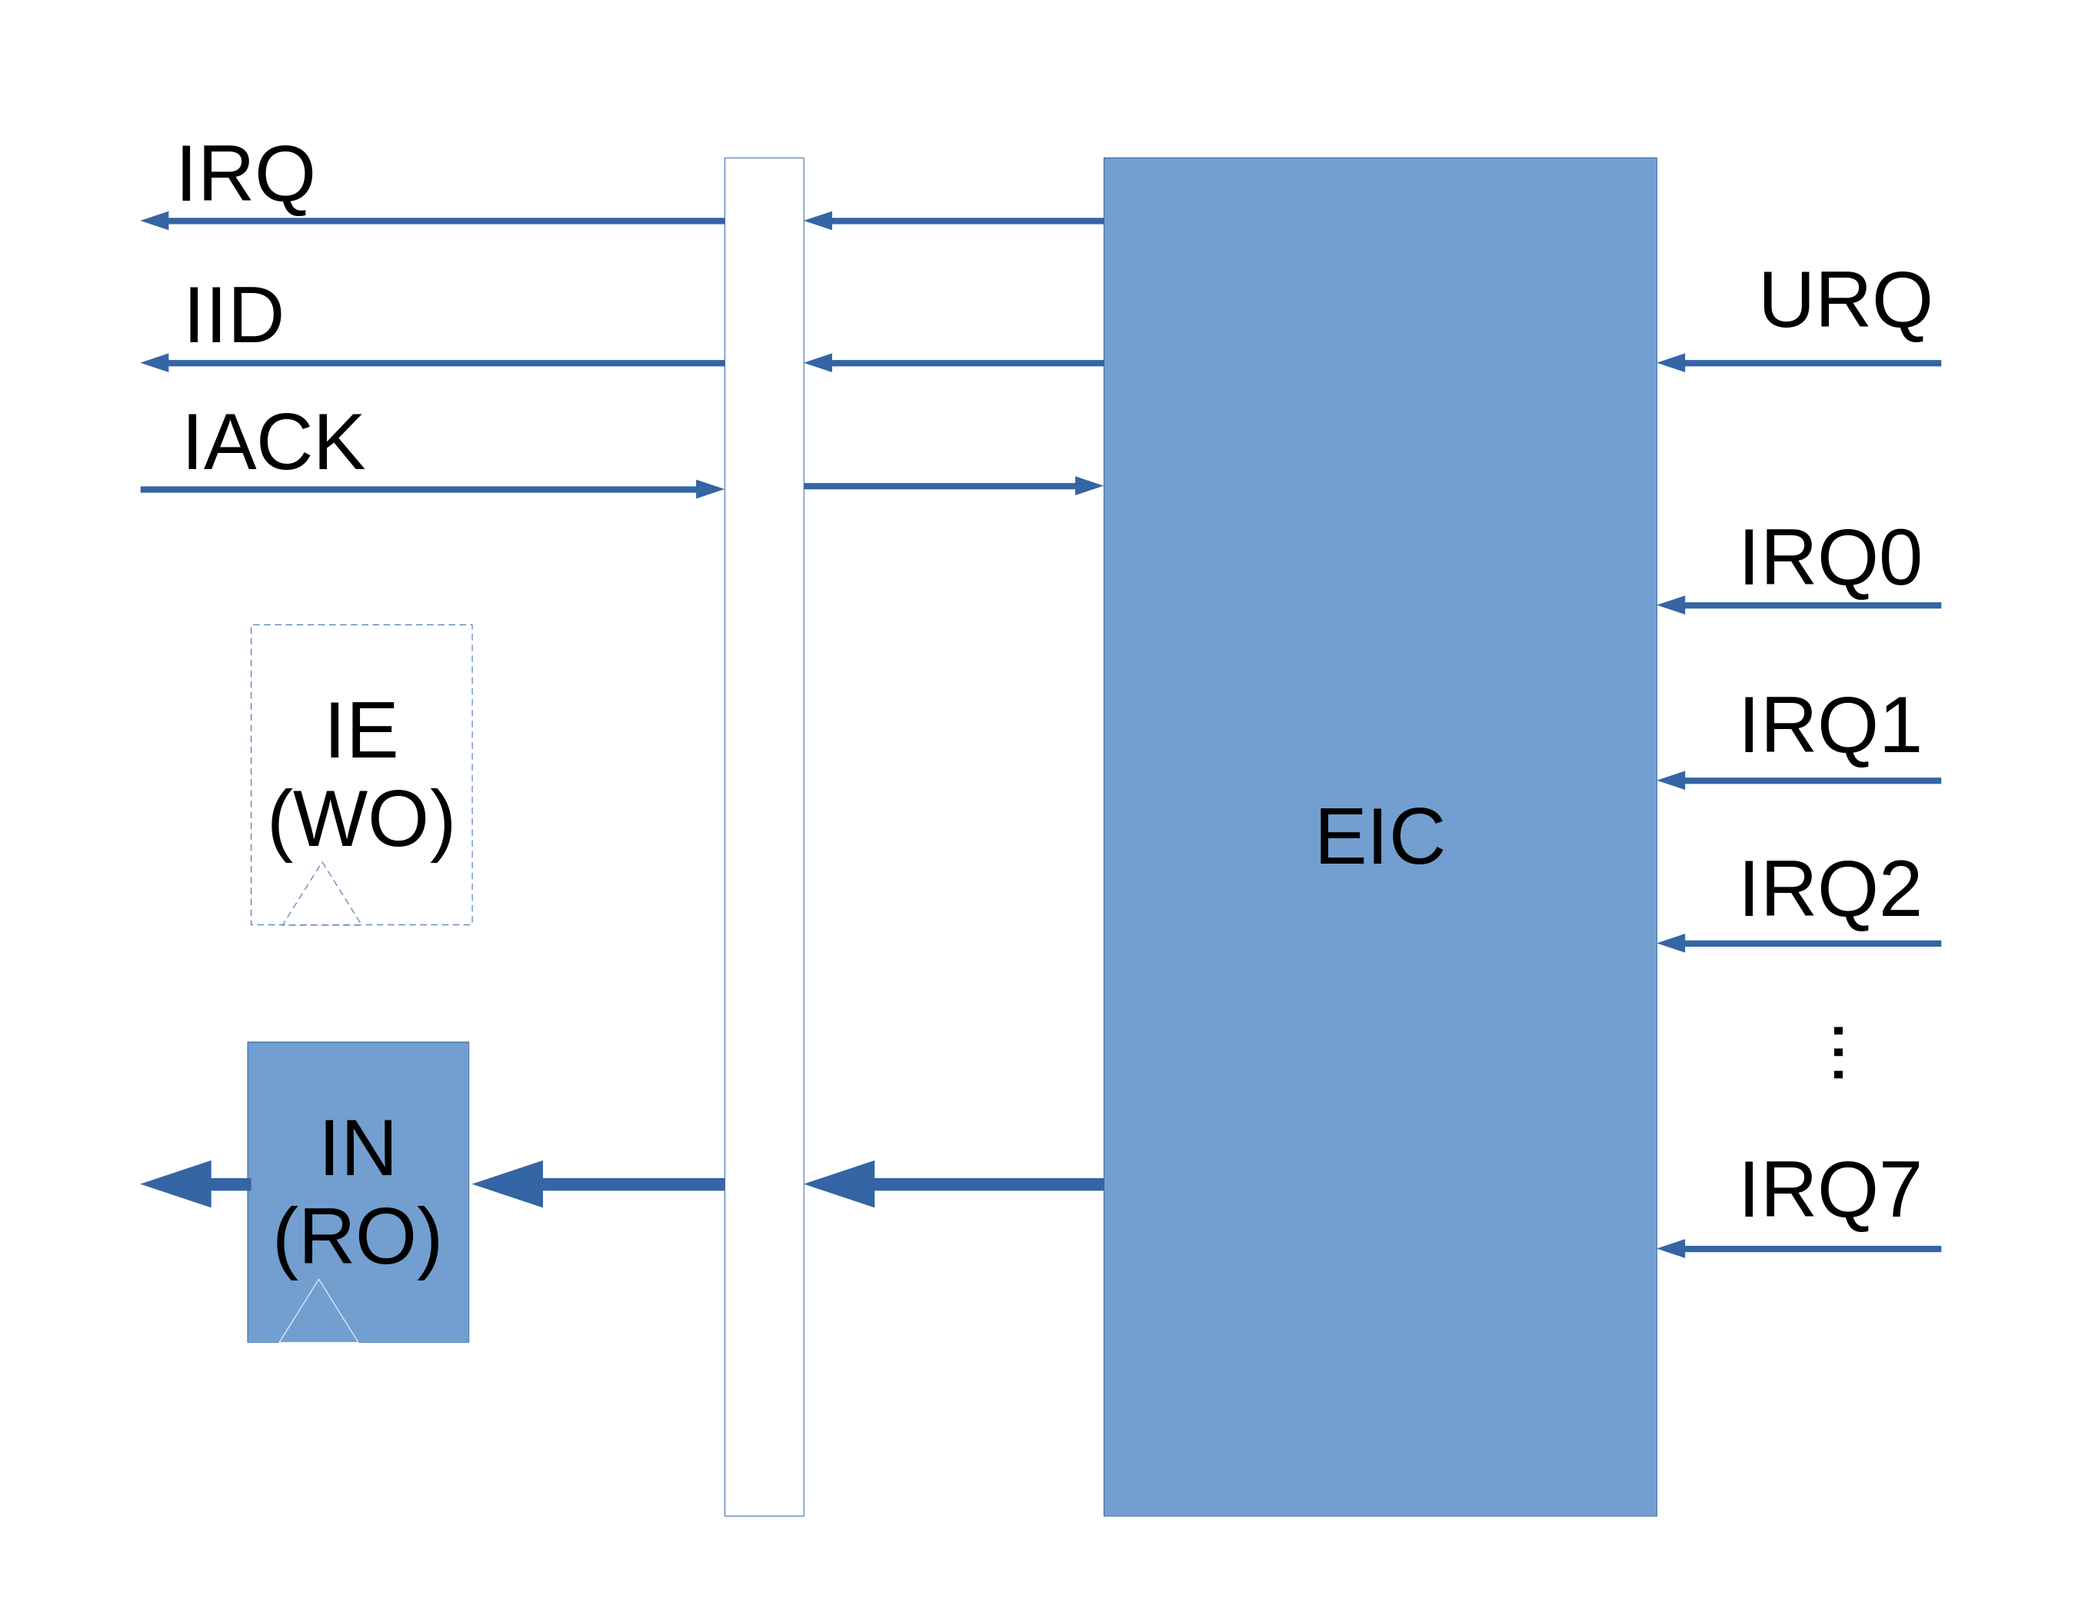
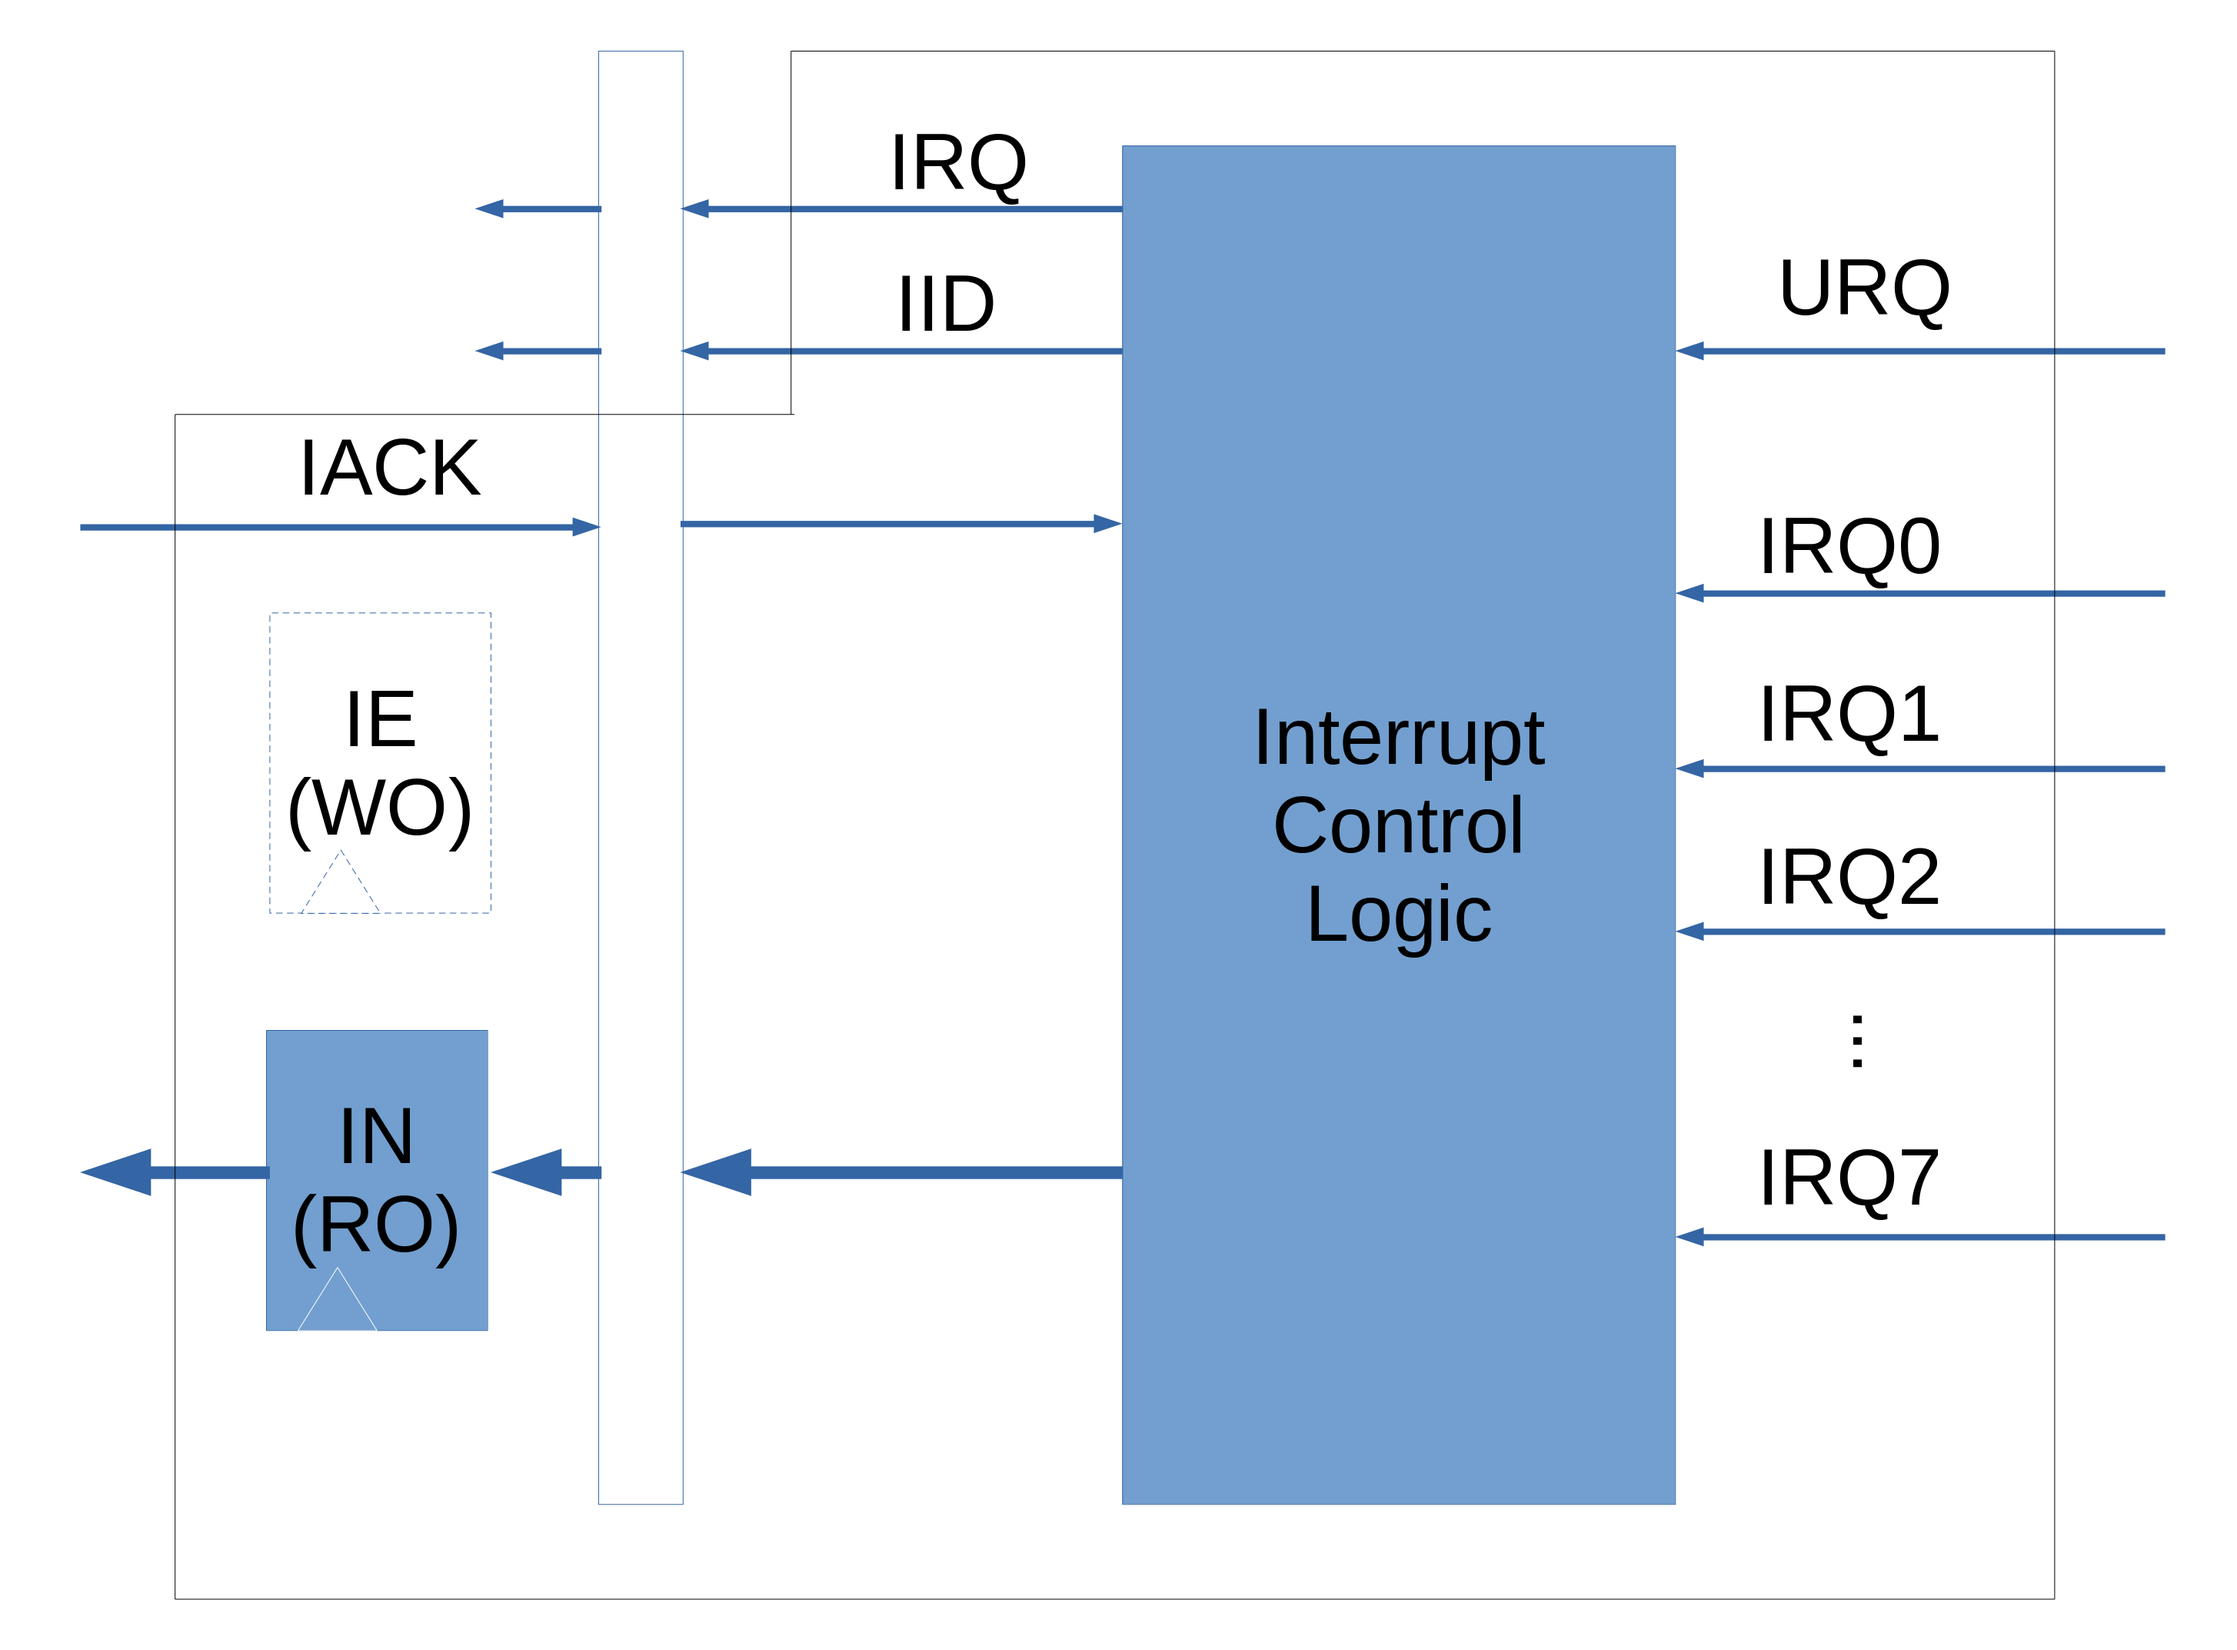
Update doc design   Add EIC registers info   Correct IRQ signaling

Changed region(s): [[0.0312, 0.0623, 0.9659, 0.9655], [0.5609, 0.436, 0.6855, 0.5918], [0.1246, 0.4049, 0.2181, 0.5295]]

diff --git a/doc/Kabeta_Design.md b/doc/Kabeta_Design.md
@@ -349,11 +349,11 @@ Only the JMP instruction is allowed to clear the Supervisor bit but not set it, 
 | **ExcAddr**           | 32’h8000_0000 | EVT[ExcCodeMA] | EVT[ExcCodeEX] | EVT[ExcCodeRR]                   | EVT[ExcCodeIF]                   | EVT[{2’b11,IID}]   | X          | X                                                            | X             |
 | **PC_Sel [1]**         | EXCA          | EXCA           | EXCA           | EXCA                             | EXCA                             | EXCA               | X          | REGA (AL), PCLIT ((EQ and RaZero) or (NE and !RaZero)) | PCNX          |
 | **FlushIF**           | 0             | 1              | 1              | 1                                | 1                                | 1                  | 0          | 1                                                            | 0             |
-| **ExcAckIF [2]**       | 0             | 0              | 0              | 0                                | 1                                | 0                  | 0          | 0                                                            | 0             |
-| **FlushRR**           | 0             | 1              | 1              | 1                                | 0                                | 1                  | 0         | 1                                                            | 0             |
+| **ExcAckIF [2]**       | 0             | 0              | 0              | 0                                | 1                                | 1                 | 0          | 0                                                            | 0             |
+| **FlushRR**           | 0             | 1              | 1              | 1                                | 0                                | 0                 | 0         | 1                                                            | 0             |
 | **ExcAckRR [2]**       | 0             | 0              | 0              | 1                                | 0                                | 0                  | 0          | 0                                                            | 0             |
-| **FlushEX**           | 0             | 1              | 1              | 0                                | 0                                | 1                  | 1         | 0                                                            | 0             |
-| **ExcAckEX [2]**       | 0             | 0              | 1              | 0                                | 0                                | 1                  | 0          | 0                                                            | 0             |
+| **FlushEX**           | 0             | 1              | 1              | 0                                | 0                                | 0                 | 1         | 0                                                            | 0             |
+| **ExcAckEX [2]**       | 0             | 0              | 1              | 0                                | 0                               | 0                 | 0          | 0                                                            | 0             |
 | **FlushMA**           | 0             | 1              | 0              | 0                                | 0                                | 0                  | 0          | 0                                                            | 0             |
 | **ExcAckMA [2]**       | 0             | 1              | 0              | 0                                | 0                                | 0                  | 0          | 0                                                            | 0             |
 | **ReplicatePC**       | 0             | 0              | 0              | 0                                | 0                                | 0                  | 0          | 1                                                            | 0             |

diff --git a/doc/KabIO_Design.md b/doc/KabIO_Design.md
@@ -44,6 +44,23 @@ RO -- Read Only
 
 WO -- Write Only
 
+### 1.4 I/O Address Format 
+
+I/O address is divided into two parts, block address and register address.
+
+| 31            7 | 6                     4 | 3                        0 |
+| --------------- | :---------------------: | :------------------------: |
+| (Reserved)      |      Block Address      |      Register Address      |
+
+### 1.5 I/O Registers
+
+- All registers are 32-bit wide
+- Four types:
+  - Write Only - read data is undefined
+  - Read Only - write has no effect
+  - Read Clear - read the register while clear some bits, and write has no effect
+  - Read Write - read back what has been written or reset value
+
 ## 2 External Interrupt Controller (EIC)
 
 ### 2.1 Description
@@ -61,6 +78,24 @@ Features:
 ![](IO_EIC.png)
 
 *Figure 3. [External Interrupt Controller](IO_EIC.png)*
+
+### 2.3 Registers
+
+#### 2.3.1 Interrupt Enable Register (IE) -- 0x00 - Write Only
+
+| 31            1 |  0   |
+| :-------------: | :--: |
+|   (Reserved)    | GIE  |
+
+- GIE: Global Interrupt Enable
+
+#### 2.3.2 Interrupt Number Register (IN) -- 0x04 -- Read Only
+
+| 31            3 | 2           0 |
+| :-------------: | :-----------: |
+|   (Reserved)    |      IN       |
+
+- IN: Interrupt Number
 
 ## Appendix A: Document Version History
 
